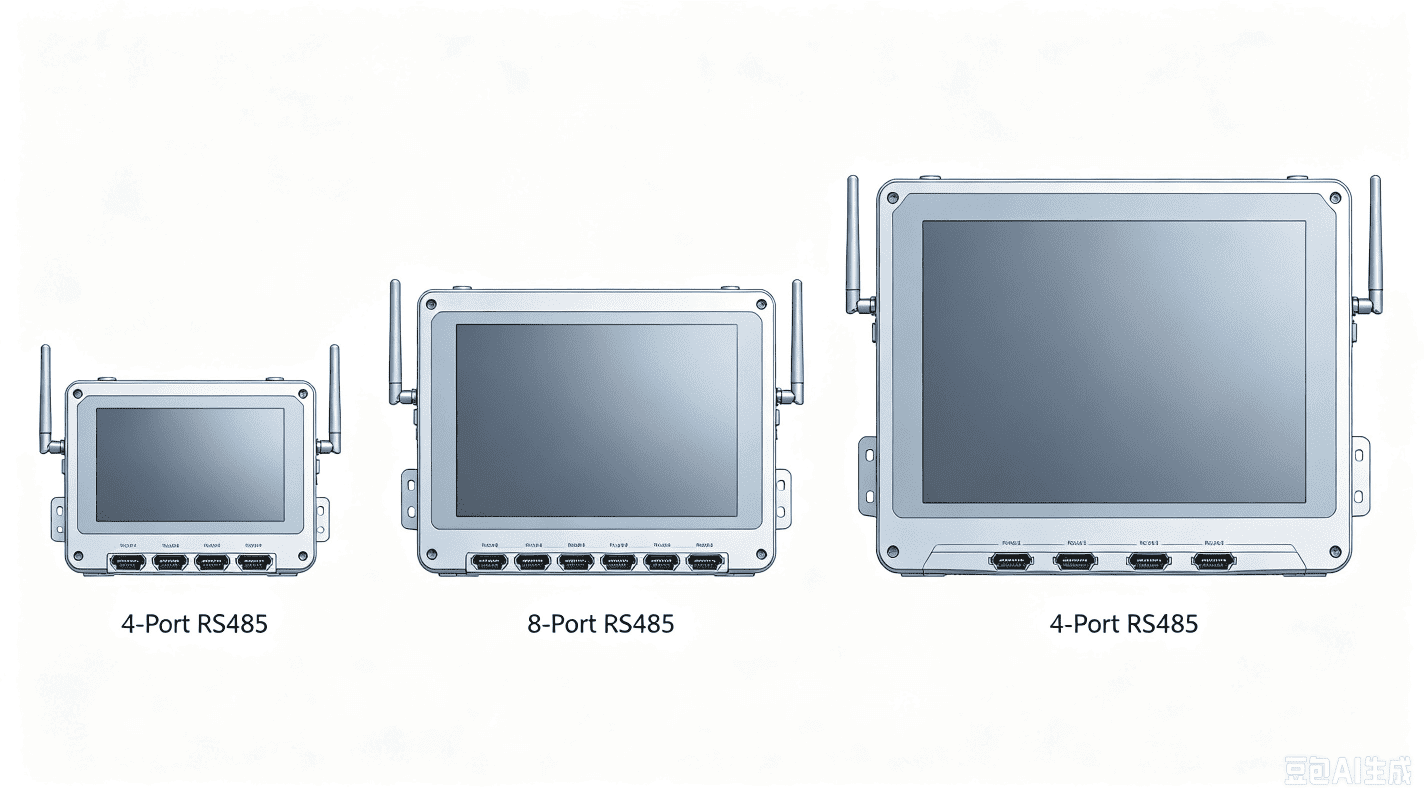
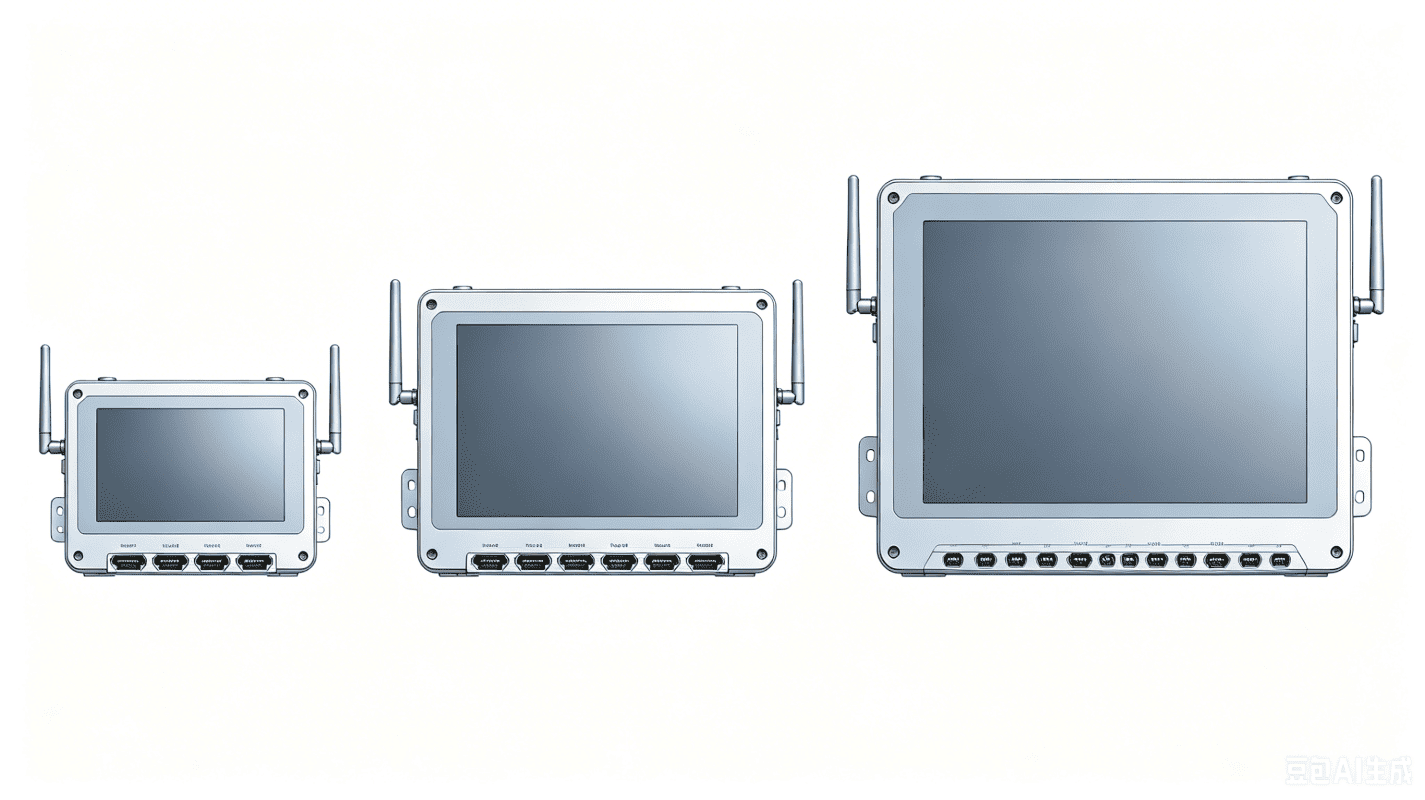
refine controllers picture

diff --git a/index.html b/index.html
@@ -189,7 +189,7 @@
             <h2>Software & Hardware Products</h2>
             <div class="grid">
                 <div class="card">
-                    <h3>🌐 ChainSmart </h3>
+                    <h3>🌐 ChainSmart IIoT System</h3>
                     <p>A cloud app that implements business logics and facility schemas, supports multi-tenants and multiple facility types. It can power multi-site vertical farms, or setup Automation-As-a-Service platforms  .</p>
                     <p>ChainSmart is customizable and extensible for different target system, .</p>
                     <p>The ChainSmart base system already has multi-tenant,multiple facility types, support greenhouses array, scalable vertical farms, container farms, Automation-as-a-Service.</p>
@@ -200,8 +200,12 @@
                     <p>Cloud-edge application framework production lines, processing facilities, and industrial IoT with predictive insights.</p>
                 </div>
                 <div class="card">
-                    <h3>🎛 Edge Automation Controllers</h3>
-                    <p>All-in-one, Web-native, automation controller that seamlessly integrate the automation network and the cloud facilities and online sales.</p>
+                    <h3>📟 Edge Automation Controllers</h3>
+                    <p>Web-native, all-in-one, edge-level real-time control and local autonomy.</p>
+                    <p>Soft automation engine that interprets cloud-defined schemas, orchestrates & controls the local device networks accordingly.</p>
+                    <p>Hybrid of wired and wireless connectivity (Modbus RTU, LoRa Transparent), plug-and-play of multiple ports, enabling extensible, flexible and modular implementations and deployment.</p>
+                    <p>Seamlessly integrates business logics with the automation fields.</p>
+                    <p>Dummy operations to add / replace IoT devices.</p>
                     <p><img src="edge-controller.png"></p>
                 </div>
             </div>
